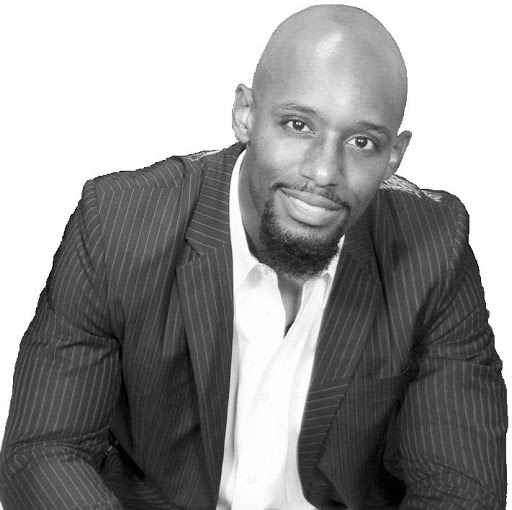
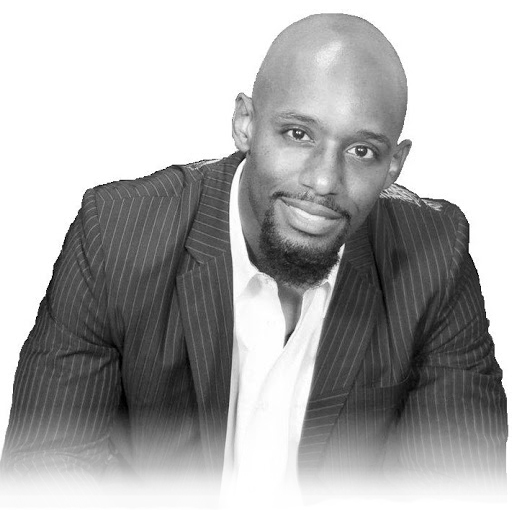
applied fade effect & modified background of thoughts + about section.

diff --git a/css/style.css b/css/style.css
@@ -1,7 +1,7 @@
 /*~ Author        : Jonathan Jolivette | General Assembly | Adobe Digital Academy
 ~ Title         : Project 0 | Personal Portfolio Website | General Assembly S.E.I. -51 Course
 ~ Created       : Feb. 8 2019
-~ Last Modified : Feb 19 2019*/
+~ Last Modified : Mar 2 2019*/
 
 /* ----------------------------------------------------------------------------------------
 *                                       Global css
@@ -87,7 +87,6 @@ input[type="submit"] {
   background: transparent;
   padding: 10px 25px;
   border: 1px solid #bbb;
-  color: #333;
   text-transform: uppercase;
   font-weight: 300;
   letter-spacing: 5px;
@@ -320,6 +319,18 @@ h3.subtitle:before {
   background-color: #555;
 }
 
+/* image | bigheadshot */
+.me-image {
+  -webkit-mask-image: -webkit-gradient(
+    linear,
+    left top,
+    left bottom,
+    from(rgba(0, 0, 0, 1)),
+    to(rgba(0, 0, 0, 0))
+  );
+  mask-image: linear-gradient(to bottom, rgba(0, 0, 0, 1), rgba(0, 0, 0, 0));
+}
+
 /* resume area */
 .resume-area {
   margin-top: 70px;
@@ -359,7 +370,7 @@ h3.subtitle:before {
 *                                Positive Thoughts/Quotes area css
 * --------------------------------------------------------------------------------------- */
 .testimonial-area {
-  background: #fbfbfb;
+  background: #fff;
 }
 
 .single-testimonial {
@@ -434,8 +445,16 @@ h3.subtitle:before {
   height: 100%;
 }
 
+#contact h2 {
+  color: white;
+}
+
+#contact p {
+  color: #fff;
+}
+
 .contact-bg-layer {
-  background-color: rgba(128, 128, 128, 0.9);
+  background-color: rgba(0, 0, 0, 0.85);
   position: absolute;
   top: 0;
   left: 0;

diff --git a/index.html b/index.html
@@ -2,7 +2,7 @@
 ~ Author        : Jonathan Jolivette | General Assembly | Adobe Digital Academy
 ~ Title         : Project 0 | Personal Portfolio Website | General Assembly S.E.I. -51 Course
 ~ Created       : Feb. 8 2019
-~ Last Modified : Feb 19 2019
+~ Last Modified : Mar 2 2019
 ----------------------------------------------------------------------------------------  -->
 
 <!DOCTYPE html>
